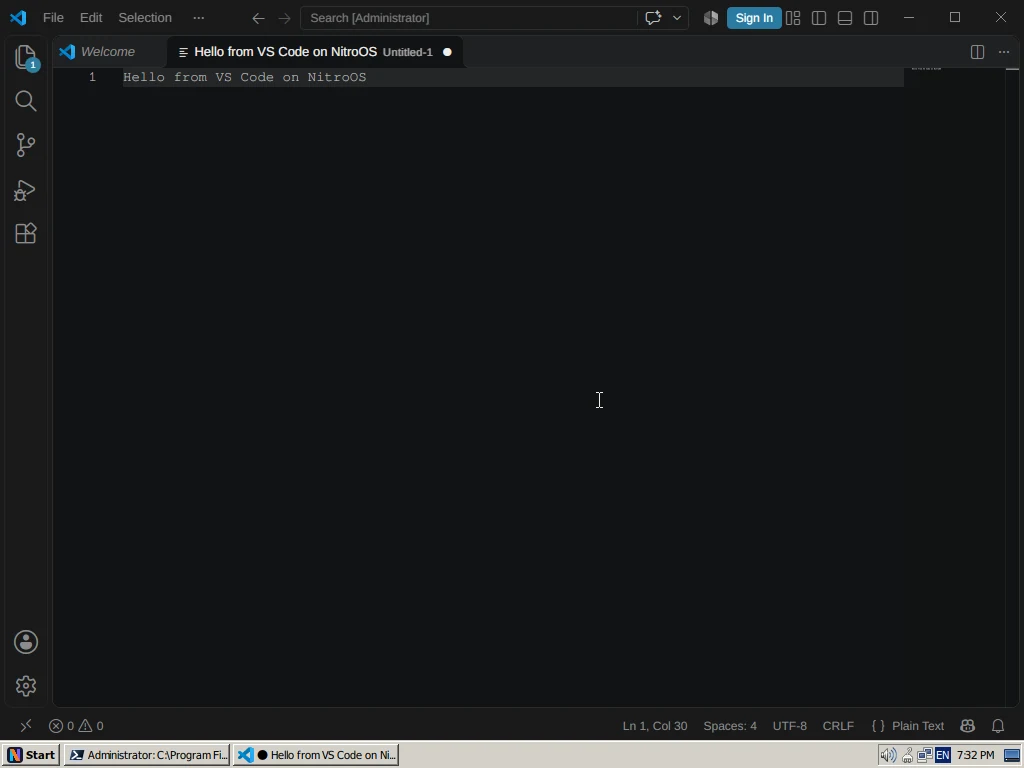
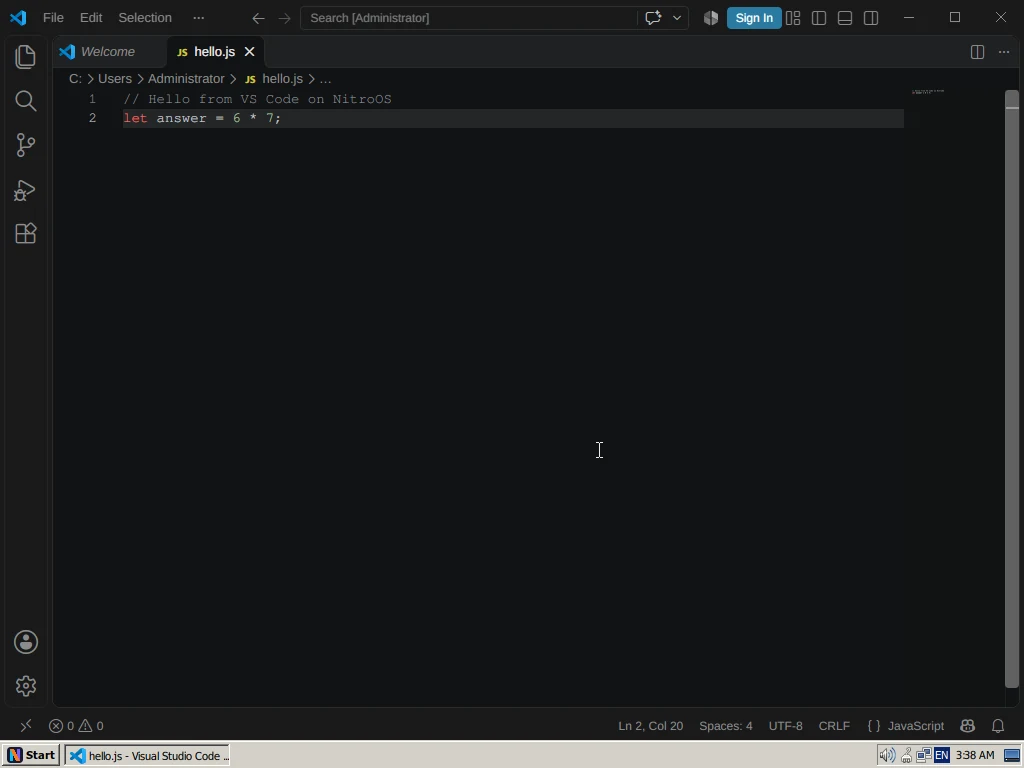
Screenshots: Disk Management and its wizard; new hero, Chrome on nitroos.org, About and VS Code from a 9 November development build (watermark 'based on ReactOS')

diff --git a/docs/index.html b/docs/index.html
@@ -35,7 +35,7 @@
 <div class="card"><h3>Accurate time in virtual machines</h3><p>The clock stays accurate even under heavy load (drift of 0.004% or less).</p></div>
 </div>
 <h3 class="grouphead">Files and storage</h3><div class="cards">
-<div class="card"><h3>Disk Management</h3><p>A Windows 7-style Disk Management tool that draws each disk and its partitions. Right-click a partition to create, format, extend or shrink a volume or change its drive letter, or set up a new disk as MBR or GPT. If an option is greyed out, the status bar tells you why. Before it changes anything, it checks that the disk is still the way you saw it, and afterwards it checks the result.</p></div>
+<div class="card"><h3>Disk Management</h3><p>A Windows 7-style Disk Management tool that draws each disk and its partitions. Right-click a partition to create, format, extend or shrink a volume or change its drive letter, or set up a new disk as MBR or GPT. If an option is greyed out, the status bar tells you why. Before it changes anything, it checks that the disk is still the way you saw it, and afterwards it checks the result. <a href="#screenshots">Screenshots</a></p></div>
 <div class="card"><h3>NTFS by default</h3><p>A full read/write NTFS driver, based on the Linux kernel's NTFS code, with a journal that recovers the disk after a power cut, and a disk checker. Setup selects NTFS for you. <a href="#screenshots">Screenshots</a></p></div>
 <div class="card"><h3>Btrfs</h3><p>Updated to WinBtrfs 1.10, with our own fixes: disks formatted on current Linux systems open, <code>format /FS:BTRFS</code> works, and drive letters stay the same.</p></div>
 <div class="card"><h3>WinFsp</h3><p>WinFsp installs, so file systems written as ordinary programs can be mounted as drive letters or network paths.</p></div>
@@ -54,17 +54,19 @@
 </div>
 </div></section>
 <section id="screenshots"><div class="wrap"><h2>Screenshots</h2>
-<p class="sub">NitroOS 2026.11-1 (64-bit, with NitroOS branding) on a freshly installed virtual machine with 4 CPUs, 4 GB of memory and a 1024x768 screen. These are unedited screen captures. Click a picture to see it full size.</p>
+<p class="sub">NitroOS (64-bit, with NitroOS branding) on freshly installed virtual machines with 4 CPUs, 4 GB of memory and a 1024x768 screen. Shots marked * are from a development build of 9 November, after release 2026.11-1; the others are from the release. These are unedited screen captures. Click a picture to see it full size.</p>
 <div class="gallery">
 <figure><a href="img/nitro-desktop.webp"><img loading="lazy" width="1024" height="768" src="img/nitro-desktop.webp" alt="The desktop"></a><figcaption>The desktop</figcaption></figure>
-<figure><a href="img/nitro-winver.webp"><img loading="lazy" width="1024" height="768" src="img/nitro-winver.webp" alt="About NitroOS: Windows version 10.0, build 19045, with 3.99 GB of 4 GB of memory usable"></a><figcaption>About NitroOS: Windows version 10.0, build 19045, with 3.99 GB of 4 GB of memory usable</figcaption></figure>
-<figure><a href="img/nitro-browser.webp"><img loading="lazy" width="1024" height="768" src="img/nitro-browser.webp" alt="Chrome 157 showing a website"></a><figcaption>Chrome 157 showing a website</figcaption></figure>
+<figure><a href="img/nitro-winver.webp"><img loading="lazy" width="1024" height="768" src="img/nitro-winver.webp" alt="About NitroOS: Windows version 10.0, build 19045, with 3.99 GB of 4 GB of memory usable *"></a><figcaption>About NitroOS: Windows version 10.0, build 19045, with 3.99 GB of 4 GB of memory usable *</figcaption></figure>
+<figure><a href="img/nitro-browser.webp"><img loading="lazy" width="1024" height="768" src="img/nitro-browser.webp" alt="Chrome showing nitroos.org *"></a><figcaption>Chrome showing nitroos.org *</figcaption></figure>
 <figure><a href="img/nitro-firefox-64-32.webp"><img loading="lazy" width="1024" height="768" src="img/nitro-firefox-64-32.webp" alt="64-bit and 32-bit Firefox running together; Task Manager marks the 32-bit processes with *32"></a><figcaption>64-bit and 32-bit Firefox running together; Task Manager marks the 32-bit processes with <code>*32</code></figcaption></figure>
-<figure><a href="img/nitro-vscode.webp"><img loading="lazy" width="1024" height="768" src="img/nitro-vscode.webp" alt="Visual Studio Code 1.145"></a><figcaption>Visual Studio Code 1.145</figcaption></figure>
+<figure><a href="img/nitro-vscode.webp"><img loading="lazy" width="1024" height="768" src="img/nitro-vscode.webp" alt="Visual Studio Code with a file open *"></a><figcaption>Visual Studio Code with a file open *</figcaption></figure>
 <figure><a href="img/nitro-powershell7.webp"><img loading="lazy" width="1024" height="768" src="img/nitro-powershell7.webp" alt="PowerShell 7.6"></a><figcaption>PowerShell 7.6</figcaption></figure>
 <figure><a href="img/nitro-dotnet.webp"><img loading="lazy" width="1024" height="768" src="img/nitro-dotnet.webp" alt="A .NET Framework 4.8 Windows Forms program, built inside the virtual machine"></a><figcaption>A .NET Framework 4.8 Windows Forms program, built inside the virtual machine</figcaption></figure>
 <figure><a href="img/nitro-features.webp"><img loading="lazy" width="1024" height="768" src="img/nitro-features.webp" alt="The Features dialog, for installing optional components"></a><figcaption>The Features dialog, for installing optional components</figcaption></figure>
 <figure><a href="img/nitro-features-installing.webp"><img loading="lazy" width="1024" height="768" src="img/nitro-features-installing.webp" alt="Features installing the selected components"></a><figcaption>Features installing the selected components</figcaption></figure>
+<figure><a href="img/nitro-diskmgmt.webp"><img loading="lazy" width="1024" height="768" src="img/nitro-diskmgmt.webp" alt="Disk Management: NTFS, FAT32, a logical drive, free space and unallocated space on one disk *"></a><figcaption>Disk Management: NTFS, FAT32, a logical drive, free space and unallocated space on one disk *</figcaption></figure>
+<figure><a href="img/nitro-diskmgmt-wizard.webp"><img loading="lazy" width="1024" height="768" src="img/nitro-diskmgmt-wizard.webp" alt="The New Simple Volume wizard creating an NTFS logical drive *"></a><figcaption>The New Simple Volume wizard creating an NTFS logical drive *</figcaption></figure>
 <figure><a href="img/nitro-format.webp"><img loading="lazy" width="800" height="600" src="img/nitro-format.webp" alt="Setup, with NTFS selected"></a><figcaption>Setup, with NTFS selected</figcaption></figure>
 <figure><a href="img/nitro-install.webp"><img loading="lazy" width="800" height="600" src="img/nitro-install.webp" alt="Setup summary: multi-processor kernel, installing to \Windows"></a><figcaption>Setup summary: multi-processor kernel, installing to <code>\Windows</code></figcaption></figure>
 <figure><a href="img/nitro-firewall.webp"><img loading="lazy" width="1024" height="768" src="img/nitro-firewall.webp" alt="NitroOS Firewall, switched on after a fresh install"></a><figcaption>NitroOS Firewall, switched on after a fresh install</figcaption></figure>

diff --git a/README.md b/README.md
@@ -58,7 +58,7 @@ What NitroOS adds to ReactOS, as of release 2026.11-1.
 | Much faster memory handling | Up to 134 times faster than the ReactOS code it builds on, in our benchmarks. ([numbers](#speed)) |
 | Accurate time in virtual machines | The clock stays accurate even under heavy load (drift of 0.004% or less). |
 | **Files and storage** | |
-| Disk Management | A Windows 7-style Disk Management tool that draws each disk and its partitions. Right-click a partition to create, format, extend or shrink a volume or change its drive letter, or set up a new disk as MBR or GPT. If an option is greyed out, the status bar tells you why. Before it changes anything, it checks that the disk is still the way you saw it, and afterwards it checks the result. |
+| Disk Management | A Windows 7-style Disk Management tool that draws each disk and its partitions. Right-click a partition to create, format, extend or shrink a volume or change its drive letter, or set up a new disk as MBR or GPT. If an option is greyed out, the status bar tells you why. Before it changes anything, it checks that the disk is still the way you saw it, and afterwards it checks the result. ([screenshots](#screenshots)) |
 | NTFS by default | A full read/write NTFS driver, based on the Linux kernel's NTFS code, with a journal that recovers the disk after a power cut, and a disk checker. Setup selects NTFS for you. ([screenshots](#screenshots)) |
 | Btrfs | Updated to WinBtrfs 1.10, with our own fixes: disks formatted on current Linux systems open, `format /FS:BTRFS` works, and drive letters stay the same. |
 | WinFsp | WinFsp installs, so file systems written as ordinary programs can be mounted as drive letters or network paths. |
@@ -102,15 +102,16 @@ How we measured: on 8 November 2026, on one host (AMD EPYC 9254, QEMU/KVM), with
 
 ## Screenshots
 
-NitroOS 2026.11-1 (64-bit, with NitroOS branding) on a freshly installed virtual machine with 4 CPUs, 4 GB of memory and a 1024x768 screen. These are unedited screen captures. Click a picture to see it full size.
+NitroOS (64-bit, with NitroOS branding) on freshly installed virtual machines with 4 CPUs, 4 GB of memory and a 1024x768 screen. Shots marked * are from a development build of 9 November, after release 2026.11-1; the others are from the release. These are unedited screen captures. Click a picture to see it full size.
 
 | | |
 |---|---|
-| <a href="docs/img/nitro-desktop.webp"><img src="docs/img/nitro-desktop.webp" alt="The desktop"></a><br>The desktop | <a href="docs/img/nitro-winver.webp"><img src="docs/img/nitro-winver.webp" alt="About NitroOS: Windows version 10.0, build 19045, with 3.99 GB of 4 GB of memory usable"></a><br>About NitroOS: Windows version 10.0, build 19045, with 3.99 GB of 4 GB of memory usable |
-| <a href="docs/img/nitro-browser.webp"><img src="docs/img/nitro-browser.webp" alt="Chrome 157 showing a website"></a><br>Chrome 157 showing a website | <a href="docs/img/nitro-firefox-64-32.webp"><img src="docs/img/nitro-firefox-64-32.webp" alt="64-bit and 32-bit Firefox running together; Task Manager marks the 32-bit processes with *32"></a><br>64-bit and 32-bit Firefox running together; Task Manager marks the 32-bit processes with `*32` |
-| <a href="docs/img/nitro-vscode.webp"><img src="docs/img/nitro-vscode.webp" alt="Visual Studio Code 1.145"></a><br>Visual Studio Code 1.145 | <a href="docs/img/nitro-powershell7.webp"><img src="docs/img/nitro-powershell7.webp" alt="PowerShell 7.6"></a><br>PowerShell 7.6 |
+| <a href="docs/img/nitro-desktop.webp"><img src="docs/img/nitro-desktop.webp" alt="The desktop"></a><br>The desktop | <a href="docs/img/nitro-winver.webp"><img src="docs/img/nitro-winver.webp" alt="About NitroOS: Windows version 10.0, build 19045, with 3.99 GB of 4 GB of memory usable *"></a><br>About NitroOS: Windows version 10.0, build 19045, with 3.99 GB of 4 GB of memory usable * |
+| <a href="docs/img/nitro-browser.webp"><img src="docs/img/nitro-browser.webp" alt="Chrome showing nitroos.org *"></a><br>Chrome showing nitroos.org * | <a href="docs/img/nitro-firefox-64-32.webp"><img src="docs/img/nitro-firefox-64-32.webp" alt="64-bit and 32-bit Firefox running together; Task Manager marks the 32-bit processes with *32"></a><br>64-bit and 32-bit Firefox running together; Task Manager marks the 32-bit processes with `*32` |
+| <a href="docs/img/nitro-vscode.webp"><img src="docs/img/nitro-vscode.webp" alt="Visual Studio Code with a file open *"></a><br>Visual Studio Code with a file open * | <a href="docs/img/nitro-powershell7.webp"><img src="docs/img/nitro-powershell7.webp" alt="PowerShell 7.6"></a><br>PowerShell 7.6 |
 | <a href="docs/img/nitro-dotnet.webp"><img src="docs/img/nitro-dotnet.webp" alt="A .NET Framework 4.8 Windows Forms program, built inside the virtual machine"></a><br>A .NET Framework 4.8 Windows Forms program, built inside the virtual machine | <a href="docs/img/nitro-features.webp"><img src="docs/img/nitro-features.webp" alt="The Features dialog, for installing optional components"></a><br>The Features dialog, for installing optional components |
-| <a href="docs/img/nitro-features-installing.webp"><img src="docs/img/nitro-features-installing.webp" alt="Features installing the selected components"></a><br>Features installing the selected components | <a href="docs/img/nitro-format.webp"><img src="docs/img/nitro-format.webp" alt="Setup, with NTFS selected"></a><br>Setup, with NTFS selected |
+| <a href="docs/img/nitro-features-installing.webp"><img src="docs/img/nitro-features-installing.webp" alt="Features installing the selected components"></a><br>Features installing the selected components | <a href="docs/img/nitro-diskmgmt.webp"><img src="docs/img/nitro-diskmgmt.webp" alt="Disk Management: NTFS, FAT32, a logical drive, free space and unallocated space on one disk *"></a><br>Disk Management: NTFS, FAT32, a logical drive, free space and unallocated space on one disk * |
+| <a href="docs/img/nitro-diskmgmt-wizard.webp"><img src="docs/img/nitro-diskmgmt-wizard.webp" alt="The New Simple Volume wizard creating an NTFS logical drive *"></a><br>The New Simple Volume wizard creating an NTFS logical drive * | <a href="docs/img/nitro-format.webp"><img src="docs/img/nitro-format.webp" alt="Setup, with NTFS selected"></a><br>Setup, with NTFS selected |
 | <a href="docs/img/nitro-install.webp"><img src="docs/img/nitro-install.webp" alt="Setup summary: multi-processor kernel, installing to \Windows"></a><br>Setup summary: multi-processor kernel, installing to `\Windows` | <a href="docs/img/nitro-firewall.webp"><img src="docs/img/nitro-firewall.webp" alt="NitroOS Firewall, switched on after a fresh install"></a><br>NitroOS Firewall, switched on after a fresh install |
 
 ## Technical details
